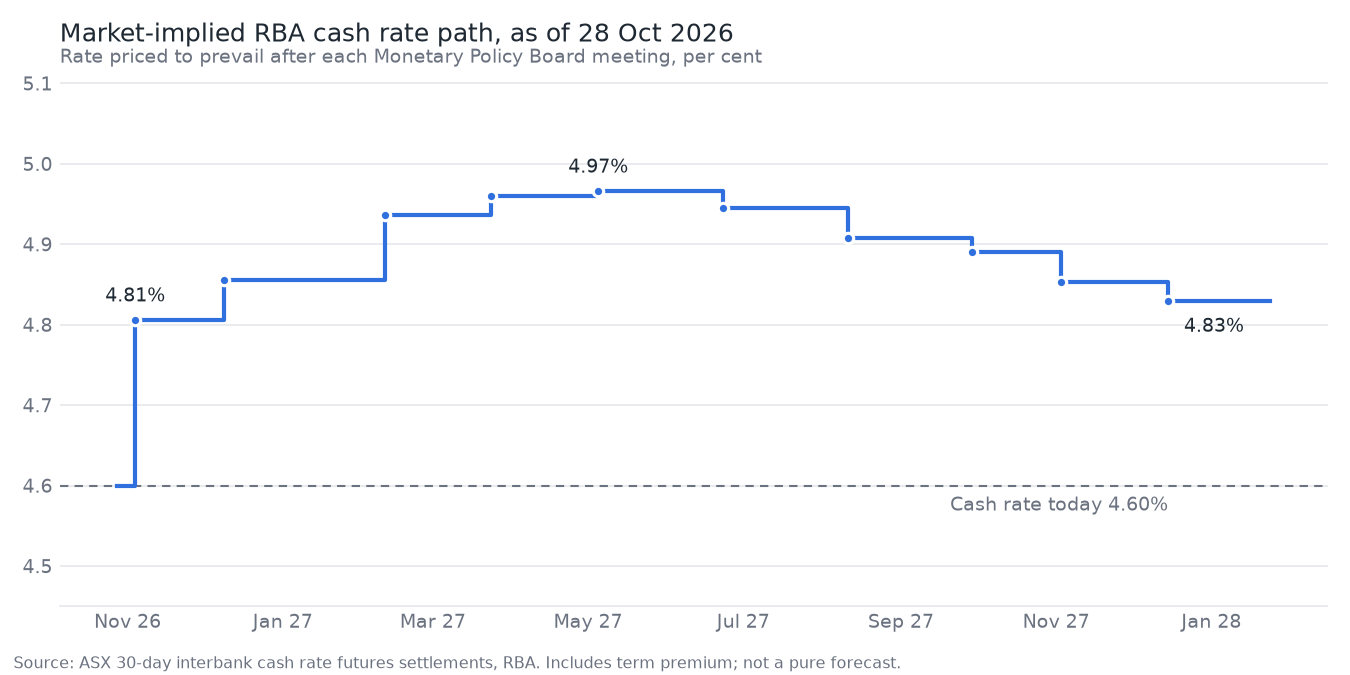
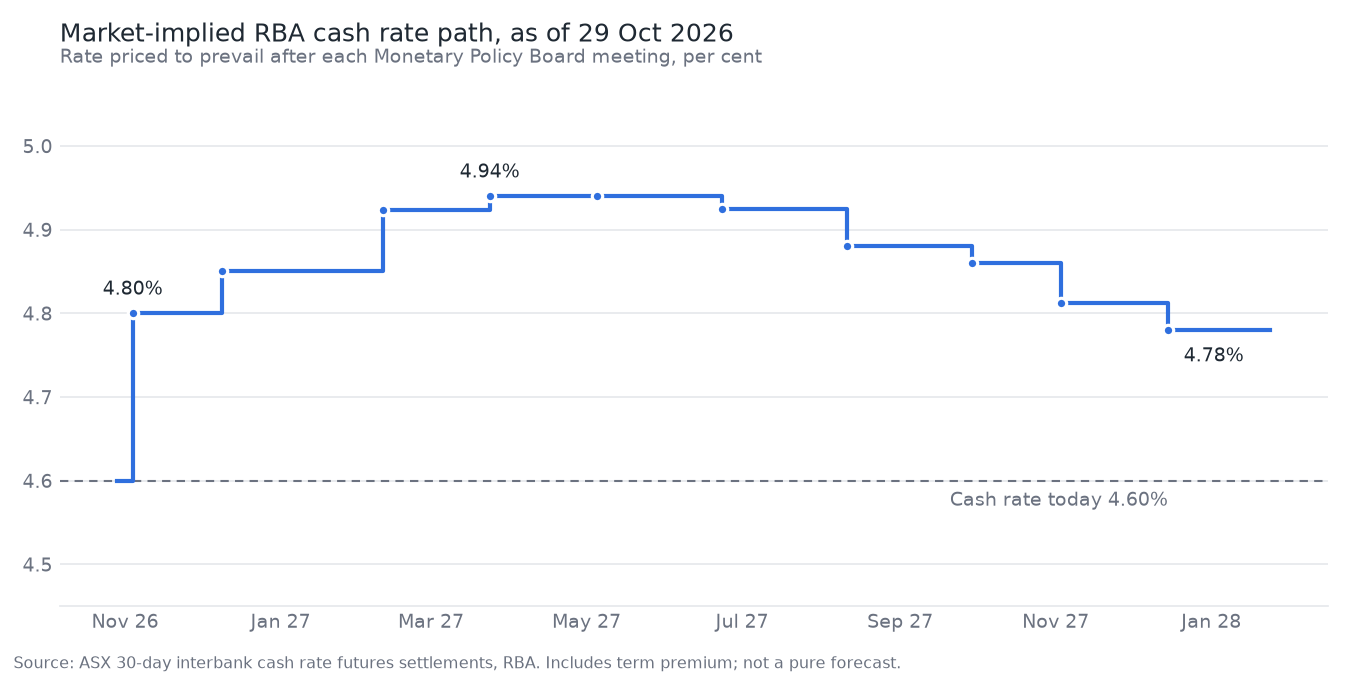
Daily snapshot 2026-10-30

diff --git a/LATEST.md b/LATEST.md
@@ -1,8 +1,8 @@
-# Latest: 28 October 2026
+# Latest: 29 October 2026
 
 _Regenerated by every daily update from ASX 24 settlements. Not investment advice._
 
-Cash rate **4.60%** | 3-year futures yield **4.92%** | 10-year **5.22%** | 3s10s **30bp**
+Cash rate **4.60%** | 3-year futures yield **4.86%** | 10-year **5.18%** | 3s10s **33bp**
 
 ![Implied path](output/implied_path_latest.png)
 
@@ -10,30 +10,30 @@ Cash rate **4.60%** | 3-year futures yield **4.92%** | 10-year **5.22%** | 3s10s
 
 | Meeting | Implied rate | Priced move (bp) | As share of 25bp | Cumulative (bp) |
 |---|---|---|---|---|
-| 03 Nov 2026 | 4.81% | +20.6 | +82% | +20.6 |
-| 08 Dec 2026 | 4.86% | +4.9 | +20% | +25.5 |
-| 09 Feb 2027 | 4.94% | +8.1 | +32% | +33.6 |
-| 23 Mar 2027 | 4.96% | +2.4 | +10% | +36.0 |
-| 04 May 2027 | 4.97% | +0.6 | +2% | +36.6 |
-| 22 Jun 2027 | 4.95% | -2.1 | -8% | +34.5 |
-| 10 Aug 2027 | 4.91% | -3.7 | -15% | +30.8 |
-| 28 Sep 2027 | 4.89% | -1.8 | -7% | +29.0 |
-| 02 Nov 2027 | 4.85% | -3.7 | -15% | +25.3 |
-| 14 Dec 2027 | 4.83% | -2.3 | -9% | +23.0 |
+| 03 Nov 2026 | 4.80% | +20.0 | +80% | +20.0 |
+| 08 Dec 2026 | 4.85% | +5.0 | +20% | +25.0 |
+| 09 Feb 2027 | 4.92% | +7.4 | +30% | +32.4 |
+| 23 Mar 2027 | 4.94% | +1.6 | +6% | +34.0 |
+| 04 May 2027 | 4.94% | +0.0 | +0% | +34.0 |
+| 22 Jun 2027 | 4.92% | -1.5 | -6% | +32.5 |
+| 10 Aug 2027 | 4.88% | -4.4 | -18% | +28.1 |
+| 28 Sep 2027 | 4.86% | -2.1 | -8% | +26.0 |
+| 02 Nov 2027 | 4.81% | -4.8 | -19% | +21.2 |
+| 14 Dec 2027 | 4.78% | -3.2 | -13% | +18.0 |
 
 ## Next meeting: model vs market
 
 | Outcome | Model | Model + nowcast | Market |
 |---|---|---|---|
 | cut | 7% | 12% | 0% |
-| hold | 78% | 80% | 18% |
-| hike | 14% | 8% | 82% |
+| hold | 79% | 80% | 20% |
+| hike | 14% | 8% | 80% |
 
 ## Open positions
 
 | trade_id | symbol | direction | contracts | entry_price | mark | move_bp | pnl | status |
 |---|---|---|---|---|---|---|---|---|
-| 1 | YTZ2026 | SHORT | 7 | 95.095 | 95.085 | 1.0 | 196.6 | open |
-| 2 | IBX2026 | LONG | 10 | 95.36 | 95.215 | -14.5 | -3575.34 | STOP HIT |
+| 1 | YTZ2026 | SHORT | 7 | 95.095 | 95.145 | -5.0 | -983.97 | open |
+| 2 | IBX2026 | LONG | 10 | 95.36 | 95.22 | -14.0 | -3452.05 | STOP HIT |
 
 Full trade and forecast record: [SCORECARD.md](SCORECARD.md)

diff --git a/SCORECARD.md b/SCORECARD.md
@@ -1,18 +1,18 @@
 # Scorecard
 
-_Paper portfolio, marked at ASX 24 settlements for 2026-10-28. Generated by `python -m rbaengine scorecard`; every trade is listed, including losers._
+_Paper portfolio, marked at ASX 24 settlements for 2026-10-29. Generated by `python -m rbaengine scorecard`; every trade is listed, including losers._
 
 - Closed trades: **0** (0 winners)
 - Realised P&L: **$+0**
-- Open trades: **2**, unrealised P&L **$-3,379**
+- Open trades: **2**, unrealised P&L **$-4,436**
 
 | # | Entered | Trade | Entry | Stop | Target | Exit | P&L | R | Status | Rationale |
 |---|---|---|---|---|---|---|---|---|---|---|
-| 1 | 2026-10-02 | SHORT 7 YTZ2026 | 95.095 | 95.345 | 94.845 | 95.085 (mark) | $+197 | +0.04 | open | Rule C: 12-month momentum, 3-year yield above its level a year ago. Half risk; one significant result out of nine rules tested. |
-| 2 | 2026-10-16 | LONG 10 IBX2026 | 95.36 | 95.29 | 95.4 | 95.215 (mark) | $-3,575 | -2.07 | STOP HIT | Discretionary: no hike on 3 Nov. 18% priced; unemployment up from 4.4% to 4.7% in three months and weak sentiment make a hike unlikely. Stop at about 50% priced; exit at the 3 Nov settlement. Half risk. |
+| 1 | 2026-10-02 | SHORT 7 YTZ2026 | 95.095 | 95.345 | 94.845 | 95.145 (mark) | $-984 | -0.20 | open | Rule C: 12-month momentum, 3-year yield above its level a year ago. Half risk; one significant result out of nine rules tested. |
+| 2 | 2026-10-16 | LONG 10 IBX2026 | 95.36 | 95.29 | 95.4 | 95.22 (mark) | $-3,452 | -2.00 | STOP HIT | Discretionary: no hike on 3 Nov. 18% priced; unemployment up from 4.4% to 4.7% in three months and weak sentiment make a hike unlikely. Stop at about 50% priced; exit at the 3 Nov settlement. Half risk. |
 
 ## Forecast record: model vs market
 
 Brier score of the last forecast logged before each RBA decision (0 is perfect, lower is better).
 
-No meetings scored yet. Daily forecasts logged so far: 20.
+No meetings scored yet. Daily forecasts logged so far: 21.
